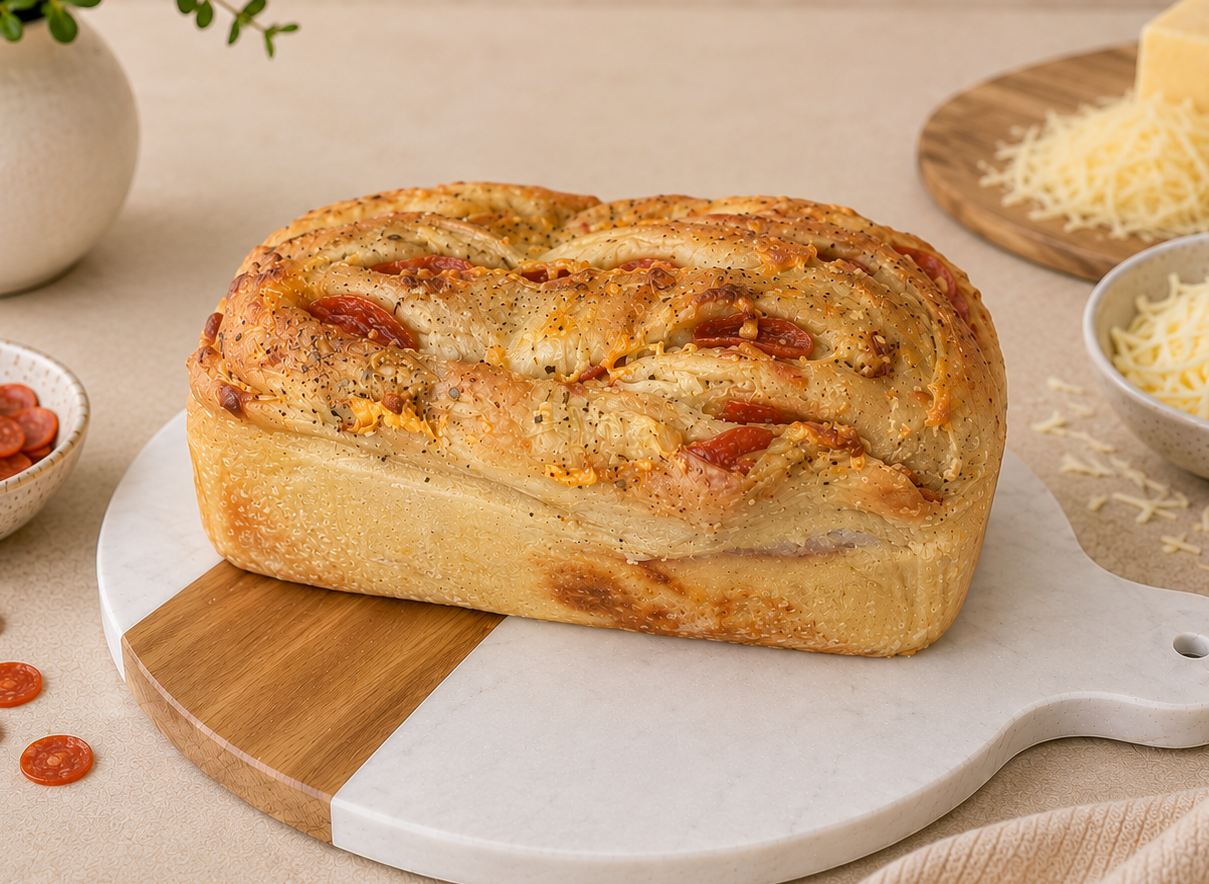
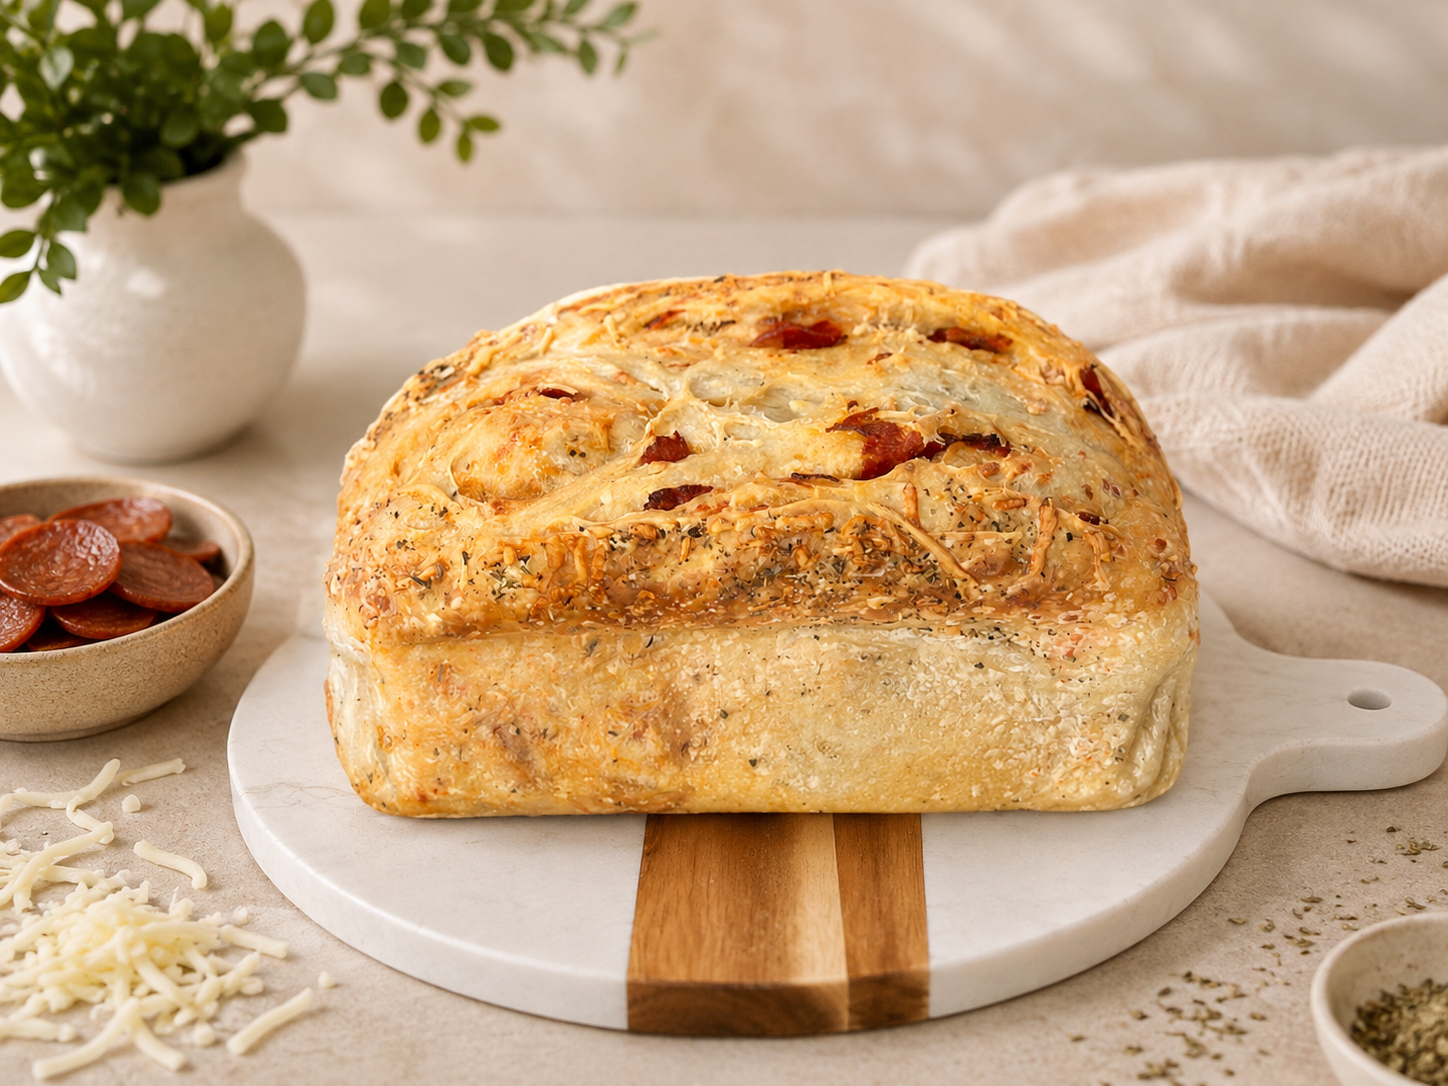
Refresh product photo cache

diff --git a/app.js b/app.js
@@ -9,6 +9,7 @@
 
 const SUPABASE_URL = "https://qvxrbipxxlygmmecgjxf.supabase.co";
 const SUPABASE_ANON_KEY = "sb_publishable_-w4Ef_bqgM_l9bY00thSpg_xohk7e9M";
+const ASSET_VERSION = "20260828-product-photos";
 
 const STORE_SETTINGS = {
   bakeryName: "Jeni's Home Made Goods",
@@ -381,8 +382,14 @@ function imageUrlFor(products) {
   return productWithImage ? cleanText(productWithImage.image_url) : "";
 }
 
+function cacheBustedAssetUrl(url) {
+  const cleanUrl = cleanText(url);
+  if (!cleanUrl || cleanUrl.includes("?") || cleanUrl.startsWith("http")) return cleanUrl;
+  return `${cleanUrl}?v=${ASSET_VERSION}`;
+}
+
 function productImageMarkup(products, altText) {
-  const imageUrl = imageUrlFor(products);
+  const imageUrl = cacheBustedAssetUrl(imageUrlFor(products));
 
   if (!imageUrl) return "";
 
@@ -399,11 +406,12 @@ function productImageMarkup(products, altText) {
 
 function invoiceItemImageMarkup(item) {
   if (!item.image_url) return "";
+  const imageUrl = cacheBustedAssetUrl(item.image_url);
 
   return `
     <img
       class="invoice-item-image"
-      src="${escapeAttribute(item.image_url)}"
+      src="${escapeAttribute(imageUrl)}"
       alt="${escapeAttribute(item.name)}"
       loading="lazy"
       onerror="this.hidden=true"

diff --git a/invoice.js b/invoice.js
@@ -8,6 +8,7 @@ const PICKUP_WINDOW = "4-7 pm";
 const PICKUP_ADDRESS = "7140 Anchor Terrace St.";
 const GATE_CODE = "#7716";
 const CONTACT_PHONE = "801-602-8443";
+const ASSET_VERSION = "20260828-product-photos";
 
 function money(cents) {
   return new Intl.NumberFormat("en-US", {
@@ -55,15 +56,22 @@ function itemName(item) {
 
 function itemImage(item) {
   if (!item.image_url) return "";
+  const imageUrl = cacheBustedAssetUrl(item.image_url);
 
   return `
     <img
       class="invoice-item-image"
-      src="${escapeHtml(item.image_url)}"
+      src="${escapeHtml(imageUrl)}"
       alt="${escapeHtml(itemName(item))}"
       onerror="this.hidden=true"
     />
   `;
+}
+
+function cacheBustedAssetUrl(url) {
+  const cleanUrl = String(url || "").trim();
+  if (!cleanUrl || cleanUrl.includes("?") || cleanUrl.startsWith("http")) return cleanUrl;
+  return `${cleanUrl}?v=${ASSET_VERSION}`;
 }
 
 function paymentLabel(value) {

diff --git a/invoice.html b/invoice.html
@@ -27,6 +27,6 @@
   </main>
 
   <script src="https://cdn.jsdelivr.net/npm/@supabase/supabase-js@2"></script>
-  <script src="invoice.js?v=20260826-simple-order-numbers"></script>
+  <script src="invoice.js?v=20260828-product-photos"></script>
 </body>
 </html>

diff --git a/index.html b/index.html
@@ -196,6 +196,6 @@
   </main>
 
   <script src="https://cdn.jsdelivr.net/npm/@supabase/supabase-js@2"></script>
-  <script src="app.js?v=20260826-simple-order-numbers"></script>
+  <script src="app.js?v=20260828-product-photos"></script>
 </body>
 </html>
